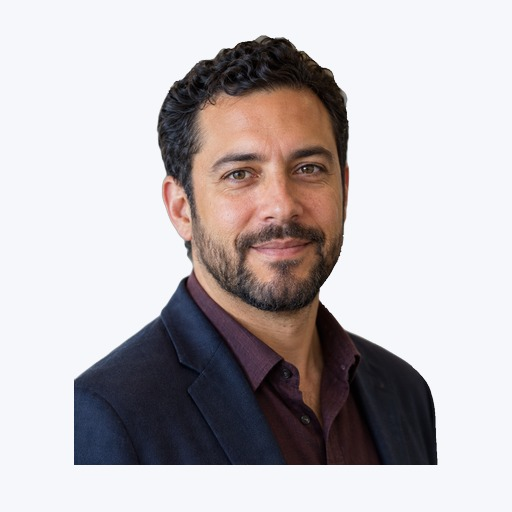
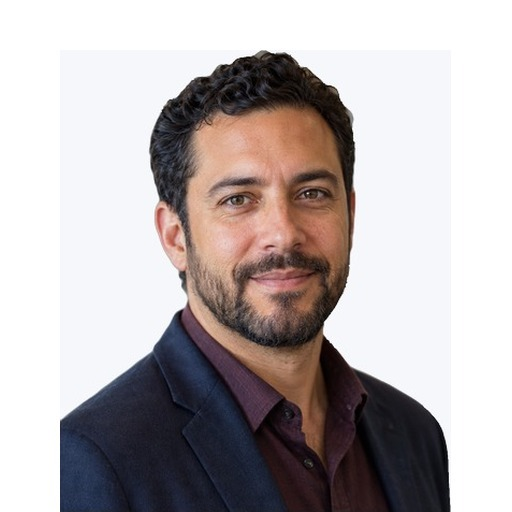
Fill team headshots to the bottom of the circle
Recrop Nick, Tony, Chris, and Jessica so torsos sit flush with the
bottom edge like Conor, and point home/leadership at cache-busted
circle assets so CDN-immutable URLs pick up the fix.

Changed region(s): [[0.0938, 0.0625, 0.9062, 1.0], [0.3438, 0.8438, 0.375, 0.875]]

diff --git a/src/content/partials/leadership.html b/src/content/partials/leadership.html
@@ -19,7 +19,7 @@
         </div>
       </div>
       <div style="display: flex; gap: 28px; padding: 36px; background: #FFFFFF; border: 1px solid rgba(10,29,56,.09); border-radius: 4px; animation: rise .8s .1s both;">
-        <img src="/images/nick-headshot.jpg" alt="Nick Perez" style="flex-shrink: 0; width: 112px; height: 112px; border-radius: 50%; object-fit: cover;">
+        <img src="/images/nick-circle.jpg" alt="Nick Perez" style="flex-shrink: 0; width: 112px; height: 112px; border-radius: 50%; object-fit: cover;">
         <div>
           <h2 style="margin: 0; font-family: 'Plus Jakarta Sans', sans-serif; font-weight: 800; font-size: 23px; letter-spacing: -.6px;">Nick</h2>
           <div style="margin: 6px 0 14px; font-size: 13px; font-weight: 600; letter-spacing: .08em; text-transform: uppercase; color: #1A4FD0;">Co-Founder · Growth &amp; Healthcare</div>
